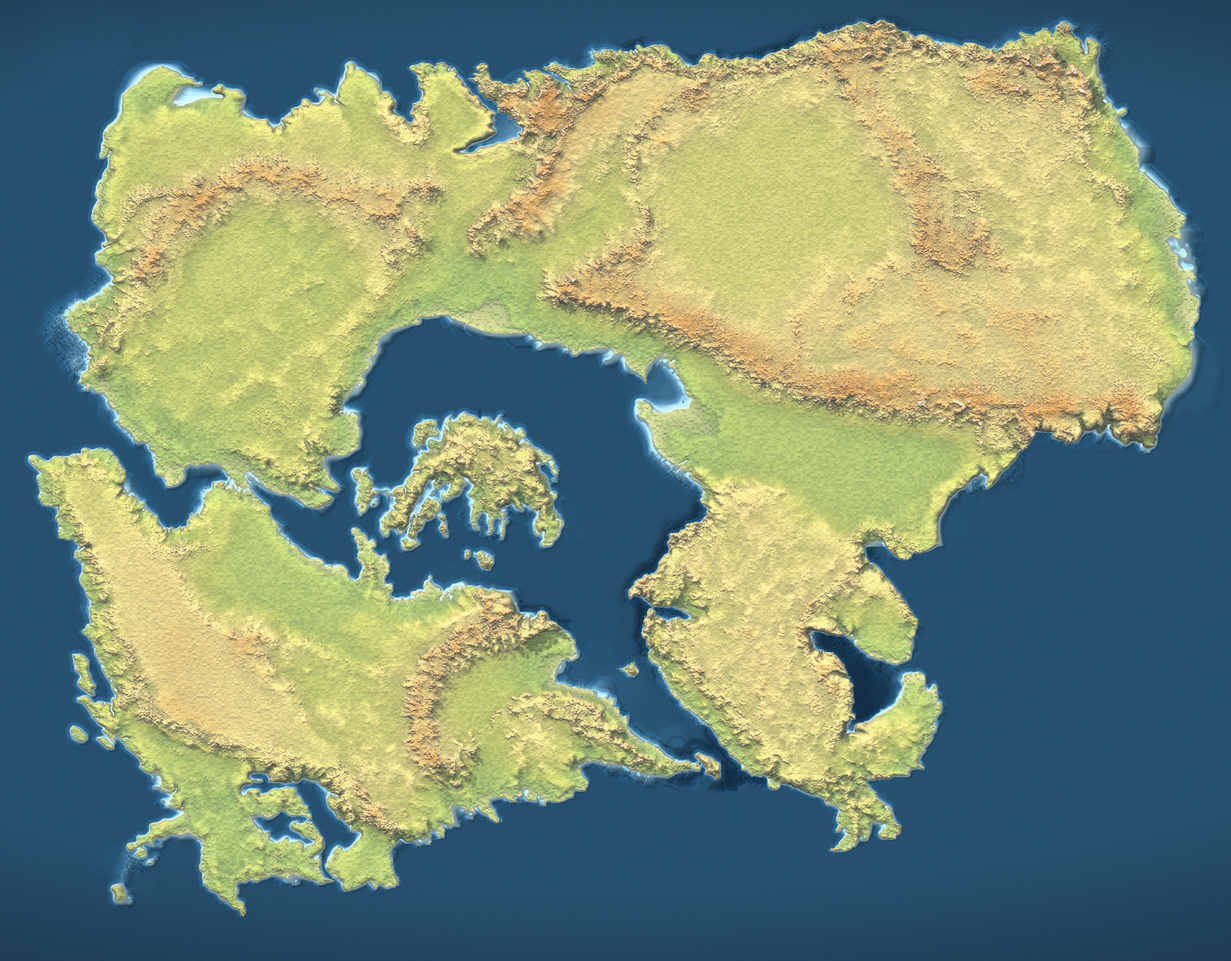
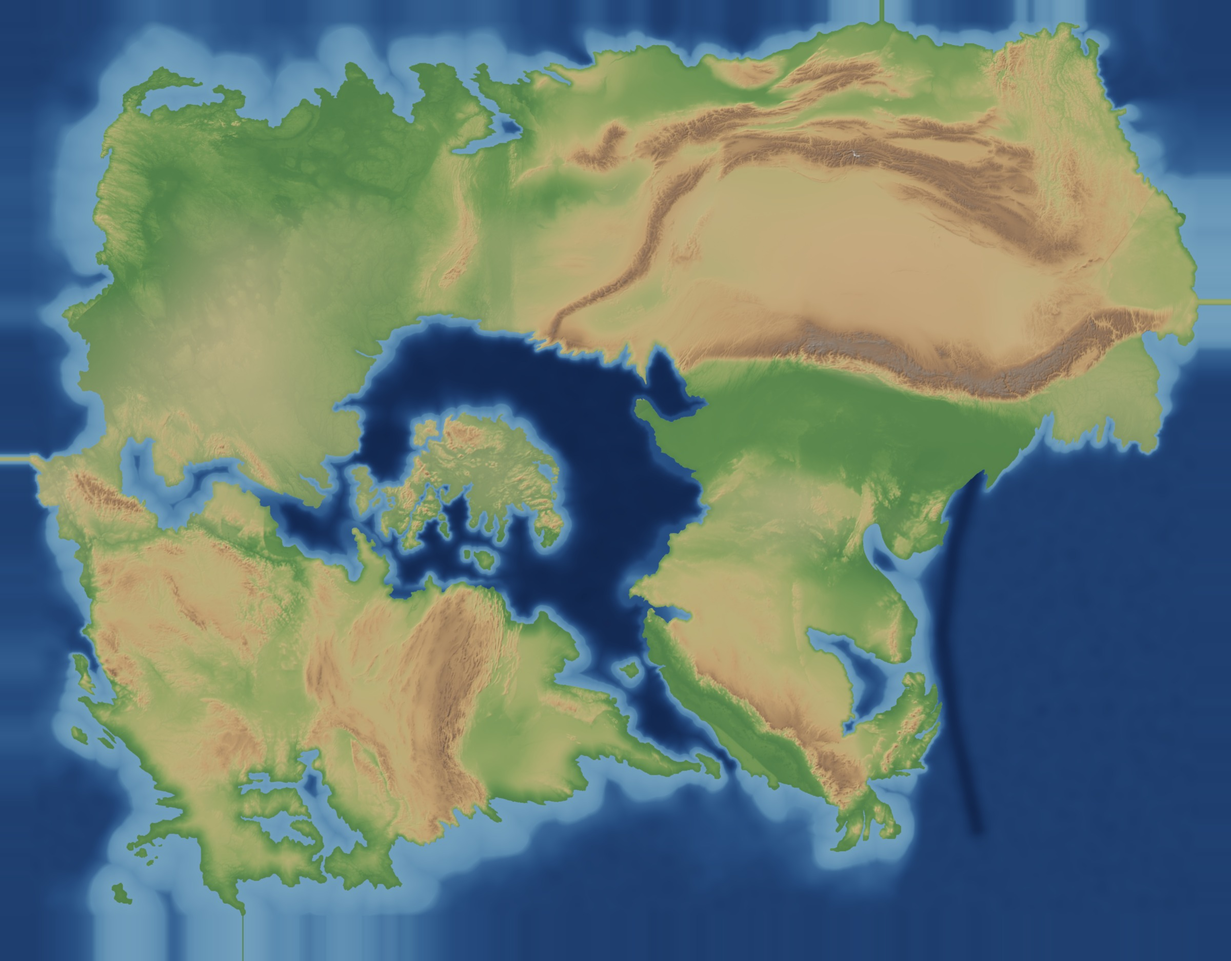
Dokuzuncu arazi denemesi: batı sırtındaki 37-38.5°K gediği kapatıldı
Doğrusal eğri [[0,0],[1,5030]], max_elev_m 5030; levhalar, su ve göl testi düzeltmeleri arazi-tarih-8'den.

Claude-Session: https://claude.ai/code/session_01X56oZFTqgptLAFmNm82jib

diff --git a/test/uygulama_test.js b/test/uygulama_test.js
@@ -214,7 +214,9 @@ const OLC = () => {
       const hedef = await p.evaluate(() => { const A = window.__atlas, D = A.D, s = A.durum(), B = D.B;
         const L = [...D.su.goller].sort((a, b) => b.alan - a.alan)[0], k = L.kutu, c = document.createElement("canvas").getContext("2d");
         for (let i = 1; i < 20; i++) for (let j = 1; j < 20; j++) { const lo = k[0] + (k[2] - k[0]) * i / 20, la = k[1] + (k[3] - k[1]) * j / 20;
-          if (c.isPointInPath(L.yol, lo, la, "evenodd")) return { x: s.ox + (lo - B[0]) / (B[2] - B[0]) * D.W * s.olcek, y: s.oy + (B[3] - la) / (B[3] - B[1]) * D.H * s.olcek }; }
+          // kıyıdan en az bir hücre içeride: dokunuş hücre merkezine oturur, kıyıdaki nokta gölün dışına düşebilir
+          const dx = (B[2] - B[0]) / D.W, dy = (B[3] - B[1]) / D.H, ic = (x, y) => c.isPointInPath(L.yol, x, y, "evenodd");
+          if (ic(lo, la) && ic(lo - dx, la) && ic(lo + dx, la) && ic(lo, la - dy) && ic(lo, la + dy)) return { x: s.ox + (lo - B[0]) / (B[2] - B[0]) * D.W * s.olcek, y: s.oy + (B[3] - la) / (B[3] - B[1]) * D.H * s.olcek }; }
         return null; });
       if (hedef) { await p.touchscreen.tap(hedef.x, hedef.y); await bekle(700);
         const t = await p.evaluate(() => document.querySelector("#kart-icerik .k-su")?.textContent || "");

diff --git a/tektonik/levhalar.py b/tektonik/levhalar.py
@@ -27,6 +27,10 @@ RES = 0.1
 w = uret.dunya_yukle(); g = uret.grid_kur(w, RES)
 land = g.land.astype(bool); lat = np.asarray(g.lat); lon = np.asarray(g.lon); H, W = land.shape
 e = np.where(land, np.maximum(g.elev, 0), 0).astype(float); es = ndimage.gaussian_filter(e, 3)
+# Etek eşikleri 7000 m'lik arazide ölçüldü (TEKTONIK.md). Arazi değişip en yüksek nokta
+# başka olunca eşikler aynı oranda ölçeklenir: 3730 m'lik denemede (14 Kasım) mutlak 2500 m
+# hiç aşılmıyor, Pireneler sınırı boş kalıyordu. Eski arazide OLC = 1, sonuç birebir aynı.
+OLC = float(json.load(open(os.path.join(KOK, "dunya", "dunyam.json"), encoding="utf-8"))["heightmap"]["max_elev_m"]) / 7000.0
 RKM = w.radius_km
 row = lambda la: int(round(np.interp(-la, -lat, np.arange(H))))
 col = lambda lo: int(round(np.interp(lo, lon, np.arange(W))))
@@ -72,25 +76,25 @@ def olculen(ad):
     p = []
     if ad == "duvar":             # Duvar'in guney etegi, boylam 7.6..33
         for lo in np.arange(7.6, 33.2, 0.5):
-            x = col(lo); r = np.where(land[row(45):row(25), x] & (es[row(45):row(25), x] > 2500))[0]
+            x = col(lo); r = np.where(land[row(45):row(25), x] & (es[row(45):row(25), x] > 2500 * OLC))[0]
             if not len(r): continue
             y = row(45) + r.max()
-            while y < row(20) and land[y, x] and es[y, x] > 1200: y += 1
+            while y < row(20) and land[y, x] and es[y, x] > 1200 * OLC: y += 1
             p.append((LA(y), lo))
     elif ad == "pireneler":       # 5'in guney etegi
         for lo in np.arange(-41, -16, 0.5):
-            x = col(lo); r = np.where(land[row(53):row(38), x] & (es[row(53):row(38), x] > 2500))[0]
+            x = col(lo); r = np.where(land[row(53):row(38), x] & (es[row(53):row(38), x] > 2500 * OLC))[0]
             if not len(r): continue
             y = row(53) + r.max()
-            while y < row(33) and land[y, x] and es[y, x] > 1200: y += 1
+            while y < row(33) and land[y, x] and es[y, x] > 1200 * OLC: y += 1
             p.append((LA(y), lo))
     elif ad == "alpler":          # 4'un ic (dogu) etegi
         for la in np.arange(19.5, 3.0, -0.5):
             y = row(la); c0, c1 = col(-21), col(-6)
-            r = np.where(land[y, c0:c1] & (es[y, c0:c1] > 2500))[0]
+            r = np.where(land[y, c0:c1] & (es[y, c0:c1] > 2500 * OLC))[0]
             if not len(r): continue
             x = c0 + r.max()
-            while x < col(0) and land[y, x] and es[y, x] > 1300: x += 1
+            while x < col(0) and land[y, x] and es[y, x] > 1300 * OLC: x += 1
             p.append((la, LO(x)))
     elif ad == "bati_cukur":      # guneybati blogunun bati kiyisi acigi
         for la in np.arange(27.5, 5.0, -0.5):
@@ -99,10 +103,10 @@ def olculen(ad):
     elif ad == "alti":            # 6: kucuk kita carpismasi
         for la in np.arange(6.5, -3.0, -0.5):
             y = row(la); c0, c1 = col(-27), col(-12)
-            r = np.where(land[y, c0:c1] & (es[y, c0:c1] > 2200))[0]
+            r = np.where(land[y, c0:c1] & (es[y, c0:c1] > 2200 * OLC))[0]
             if not len(r): continue
             x = c0 + r.min()
-            while x > col(-32) and land[y, x] and es[y, x] > 1000: x -= 1
+            while x > col(-32) and land[y, x] and es[y, x] > 1000 * OLC: x -= 1
             p.append((la, LO(x)))
     elif ad == "ege_cukur":       # takimadanin guney acigi
         lab, n = ndimage.label(land, np.ones((3, 3))); ana = np.argmax(np.bincount(lab.ravel())[1:]) + 1
@@ -114,8 +118,15 @@ def olculen(ad):
         for la in np.arange(21.5, -1.0, -0.5):
             y = row(la); c0, c1 = col(14), col(45); r = np.where(land[y, c0:c1])[0]
             if len(r): p.append((la, LO(c0 + r.max() + 14)))
+    if not p:
+        OLCULEMEYEN.append(ad); print("UYARI: %s etegi bu arazide olculemedi, sinir uc noktalar arasinda duz" % ad)
     return yumusat(p)
+OLCULEMEYEN = []
 def yumusat(p, k=5):
+    # ölçülecek dağ yoksa (yeni arazide o kuşak alçak) boş döner: sınır uç noktaları
+    # arasında düz geçer; olculen() kaç noktanın düştüğünü OLCULEMEYEN'e yazar
+    if not p:
+        return []
     a = np.array(p, float); o = a.copy()
     for i in range(len(a)): o[i] = a[max(0, i - k // 2): i + k // 2 + 1].mean(0)
     o[0], o[-1] = a[0], a[-1]; return [tuple(x) for x in o]

diff --git a/su/duzelt.py b/su/duzelt.py
@@ -112,6 +112,20 @@ BOGAZ_ESIK_M = 1200.0    # yol boyunca özgün arazi bunu ilk aşınca boğaz ba
 # (eşik aşınması kuralı 200 m'den sığ çukuru boşaltırdı).
 TATLI_GOL = dict(nehir="plato_kolu", alan_km2=10000.0, seviye_m=792.0, derinlik_m=250.0,
                  bogazdan_uzak_hucre=4, boy_hucre=9)
+# Yedek (14 Kasım, alçak arazi denemesi): yol boyunca özgün arazi BOGAZ_ESIK_M'yi hiç
+# aşmıyorsa boğaz yolun en yüksek noktasında (sırt) başlar ve plato tabanı kısıtı
+# uygulanmaz; bkz. kurgu_nehirler, tatli_gol. Eski arazide eşik aşıldığı için etkisiz.
+SIRT = {}
+
+
+def bogaz_baslangici(yol, z):
+    """Boğazın başladığı yol indeksi: kaynağın kendisi dağdaysa (eşiğin üstünde)
+    o ilk yüksek kesim atlanır; ondan sonra eşiğin ilk aşıldığı yer. Yoksa None.
+    Kaynak eşiğin altındaysa eski kuralla ("ilk aşılan yer") birebir aynı."""
+    k = 0
+    while k < len(yol) and z[yol[k]] > BOGAZ_ESIK_M:
+        k += 1
+    return next((i for i in range(k, len(yol)) if z[yol[i]] > BOGAZ_ESIK_M), None)
 
 
 def _en_alcak_yol(z, a, b, maske):
@@ -161,12 +175,19 @@ def kurgu_nehirler(zr, z, lat, lon):
             parca = _en_alcak_yol(z2, a, b, maske)
             yol += parca if not yol else parca[1:]
         seviye = np.inf; bogaz = False
-        for n in yol:
+        kara_yol = [n for n in yol if z[n] >= 0]
+        i_bogaz = bogaz_baslangici(kara_yol, z)
+        esikli = i_bogaz is not None
+        if not esikli:
+            SIRT[ad] = int(np.argmax([z[n] for n in kara_yol]))
+            print("UYARI: %s yolunda arazi %d m'yi asmiyor; bogaz sirtta (%d m) baslar, plato tabani kisiti yok"
+                  % (ad, BOGAZ_ESIK_M, max(z[n] for n in kara_yol)))
+        for k_, n in enumerate(yol):
             if z[n] < 0:
                 break
-            bogaz = bogaz or z[n] > BOGAZ_ESIK_M
+            bogaz = bogaz or k_ >= (i_bogaz if esikli else SIRT[ad])
             seviye = min(seviye - 0.5, z2[n] - 10.0)
-            if PLATO_TABAN_M is not None and not bogaz and seviye < PLATO_TABAN_M:
+            if PLATO_TABAN_M is not None and esikli and not bogaz and seviye < PLATO_TABAN_M:
                 seviye = max(seviye, min(PLATO_TABAN_M, z2[n]))
             z2[n] = min(z2[n], seviye); yatak[n] = True
         yollar[ad] = [n for n in yol if z[n] >= 0]
@@ -194,8 +215,14 @@ def tatli_gol(z2, z, yol, lat, lon):
     """
     g = TATLI_GOL
     ny, nx = z.shape
-    i0 = next(k for k, n in enumerate(yol) if z[n] > BOGAZ_ESIK_M)
+    i0 = bogaz_baslangici(yol, z)
+    if i0 is None:                                   # alçak arazi: boğaz sırtta (SIRT)
+        i0 = max(SIRT.get(g["nehir"], len(yol) - 1), g["bogazdan_uzak_hucre"] + 1)
     esik = yol[i0 - g["bogazdan_uzak_hucre"]]
+    if z2[esik] < g["seviye_m"] - 50:
+        # arazi göl seviyesinin altında: göl çıkış eşiğindeki yatak seviyesine oturur
+        g = dict(g, seviye_m=float(z2[esik]))
+        print("UYARI: tatli gol seviyesi %.0f m (yatak esigi), tasarim 792 m" % g["seviye_m"])
     eksen = yol[max(0, i0 - g["bogazdan_uzak_hucre"] - g["boy_hucre"]):i0 - g["bogazdan_uzak_hucre"]]
     dyk = 6371 * np.radians(abs(lat[1] - lat[0]))
     dxk = (6371 * np.radians(lon[1] - lon[0]) * np.cos(np.radians(lat)))[:, None] * np.ones((1, nx))
@@ -215,7 +242,13 @@ def tatli_gol(z2, z, yol, lat, lon):
             r_lo = r
     from scipy import ndimage as nd
     m = nd.binary_fill_holes((uz <= r) & (z >= 0))
-    lab, n = nd.label(m); m = lab == lab[esik]
+    lab, n = nd.label(m)
+    if not eksen or lab[esik] == 0:
+        # göl ekseni boş (boğaz yolun başında): göl kurulamaz. Önce etiket 0 (maske
+        # dışı) seçiliyor, bütün gezegen göl sayılıyordu (ikinci deneme, 14 Kasım).
+        print("UYARI: tatli gol kurulamadi (bogaz yolun basinda, eksen bos)")
+        return z2, np.zeros(z.shape, bool), 0.0
+    m = lab == lab[esik]
     oran = np.clip((r - uz) / r, 0, 1)
     z3 = z2.copy()
     z3[m] = g["seviye_m"] - g["derinlik_m"] * oran[m] ** 0.5 - 5.0

diff --git a/tektonik/harita.py b/tektonik/harita.py
@@ -217,7 +217,7 @@ def kita(cikti):
     # Kuzey Anadolu benzeri fay (levha ici)
     pts = []
     for lo in np.arange(1.5, 22, 0.5):
-        x = M.col(lo); r = np.where(land[M.row(30):M.row(8), x] & (es[M.row(30):M.row(8), x] > 1100))[0]
+        x = M.col(lo); r = np.where(land[M.row(30):M.row(8), x] & (es[M.row(30):M.row(8), x] > 1100 * M.OLC))[0]
         if len(r): pts.append(h.P(M.LA(M.row(30) + r.min()), lo))
     pf = M.yumusat([(y, x) for x, y in pts], 9); pf = [(x, y) for y, x in pf]
     d.line(pf, fill=(90, 230, 140), width=6)
@@ -226,7 +226,7 @@ def kita(cikti):
         d.line([(x - 28, y - 10), (x + 28, y - 10)], fill=(90, 230, 140), width=3); d.polygon([(x + 28, y - 16), (x + 38, y - 10), (x + 28, y - 4)], fill=(90, 230, 140))
         d.line([(x - 28, y + 10), (x + 28, y + 10)], fill=(90, 230, 140), width=3); d.polygon([(x - 28, y + 4), (x - 38, y + 10), (x - 28, y + 16)], fill=(90, 230, 140))
     # 11: eski kenet
-    m11 = land & (es > 1400) & (lat[:, None] > 3) & (lat[:, None] < 21) & (lon[None, :] > 6.5) & (lon[None, :] < 13)
+    m11 = land & (es > 1400 * M.OLC) & (lat[:, None] > 3) & (lat[:, None] < 21) & (lon[None, :] > 6.5) & (lon[None, :] < 13)
     yy, xx = np.where(m11); X = np.c_[lon[xx], lat[yy]]; mu = X.mean(0); ev, vec = np.linalg.eigh(np.cov((X - mu).T)); v = vec[:, 1] * 2 * np.sqrt(ev[1])
     a, b = h.P(mu[1] - v[1], mu[0] - v[0]), h.P(mu[1] + v[1], mu[0] + v[0]); d.line([a, b], fill=(175, 175, 175), width=5)
     # volkanlar
